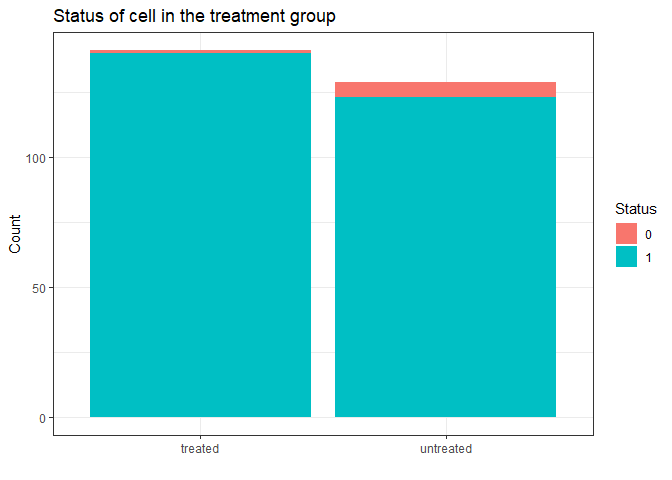
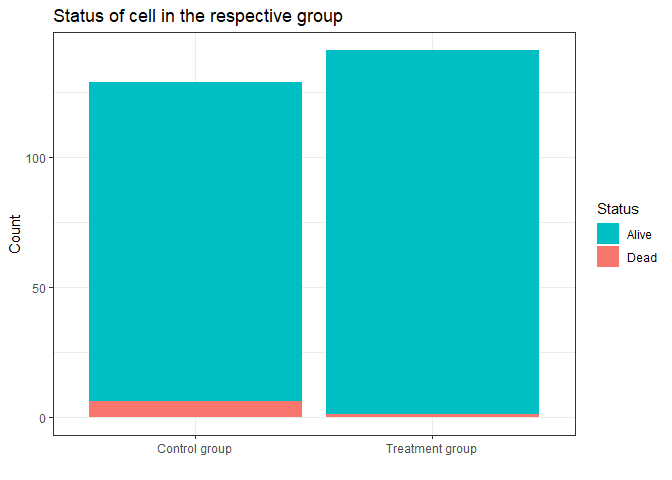
final commit

diff --git a/Projects/juliaquach02/winterstetter_solution.md b/Projects/juliaquach02/winterstetter_solution.md
@@ -87,45 +87,45 @@ one point, while in the *control group* five cells died.
 <th style="text-align: left;">group</th>
 <th style="text-align: right;">Cell.ID</th>
 <th style="text-align: right;">rel_intensity_above_40</th>
-<th style="text-align: right;">total_alive</th>
+<th style="text-align: left;">total_alive</th>
 </tr>
 </thead>
 <tbody>
 <tr class="odd">
-<td style="text-align: left;">treated</td>
-<td style="text-align: right;">250</td>
-<td style="text-align: right;">0.6970149</td>
+<td style="text-align: left;">Control group</td>
 <td style="text-align: right;">0</td>
+<td style="text-align: right;">1</td>
+<td style="text-align: left;">Alive</td>
 </tr>
 <tr class="even">
-<td style="text-align: left;">untreated</td>
-<td style="text-align: right;">8</td>
-<td style="text-align: right;">0.9992775</td>
-<td style="text-align: right;">0</td>
+<td style="text-align: left;">Control group</td>
+<td style="text-align: right;">1</td>
+<td style="text-align: right;">1</td>
+<td style="text-align: left;">Alive</td>
 </tr>
 <tr class="odd">
-<td style="text-align: left;">untreated</td>
-<td style="text-align: right;">75</td>
-<td style="text-align: right;">0.9979592</td>
-<td style="text-align: right;">0</td>
+<td style="text-align: left;">Control group</td>
+<td style="text-align: right;">2</td>
+<td style="text-align: right;">1</td>
+<td style="text-align: left;">Alive</td>
 </tr>
 <tr class="even">
-<td style="text-align: left;">untreated</td>
-<td style="text-align: right;">207</td>
-<td style="text-align: right;">0.0000000</td>
-<td style="text-align: right;">0</td>
+<td style="text-align: left;">Control group</td>
+<td style="text-align: right;">3</td>
+<td style="text-align: right;">1</td>
+<td style="text-align: left;">Alive</td>
 </tr>
 <tr class="odd">
-<td style="text-align: left;">untreated</td>
-<td style="text-align: right;">221</td>
-<td style="text-align: right;">0.0000000</td>
-<td style="text-align: right;">0</td>
+<td style="text-align: left;">Control group</td>
+<td style="text-align: right;">5</td>
+<td style="text-align: right;">1</td>
+<td style="text-align: left;">Alive</td>
 </tr>
 <tr class="even">
-<td style="text-align: left;">untreated</td>
-<td style="text-align: right;">232</td>
-<td style="text-align: right;">0.0000000</td>
-<td style="text-align: right;">0</td>
+<td style="text-align: left;">Control group</td>
+<td style="text-align: right;">6</td>
+<td style="text-align: right;">1</td>
+<td style="text-align: left;">Alive</td>
 </tr>
 </tbody>
 </table>
@@ -136,11 +136,11 @@ one point, while in the *control group* five cells died.
 
 ![](winterstetter_solution_files/figure-markdown_strict/unnamed-chunk-3-1.png)
 
-You can see that only a small amount of cells died completely die during
+You can see that only a small amount of cells did completely die during
 the time of observation.
 
 ![](winterstetter_solution_files/figure-markdown_strict/unnamed-chunk-4-1.png)
 
 It is notable that the cells in the treatment group are nearly all the
-time all alive. In the untreated group there is a significant drop in
-the relative amount of cells that are alive at the same time.
+time all alive. In the control group there is a significant drop in the
+relative amount of cells that are alive at the same time.
